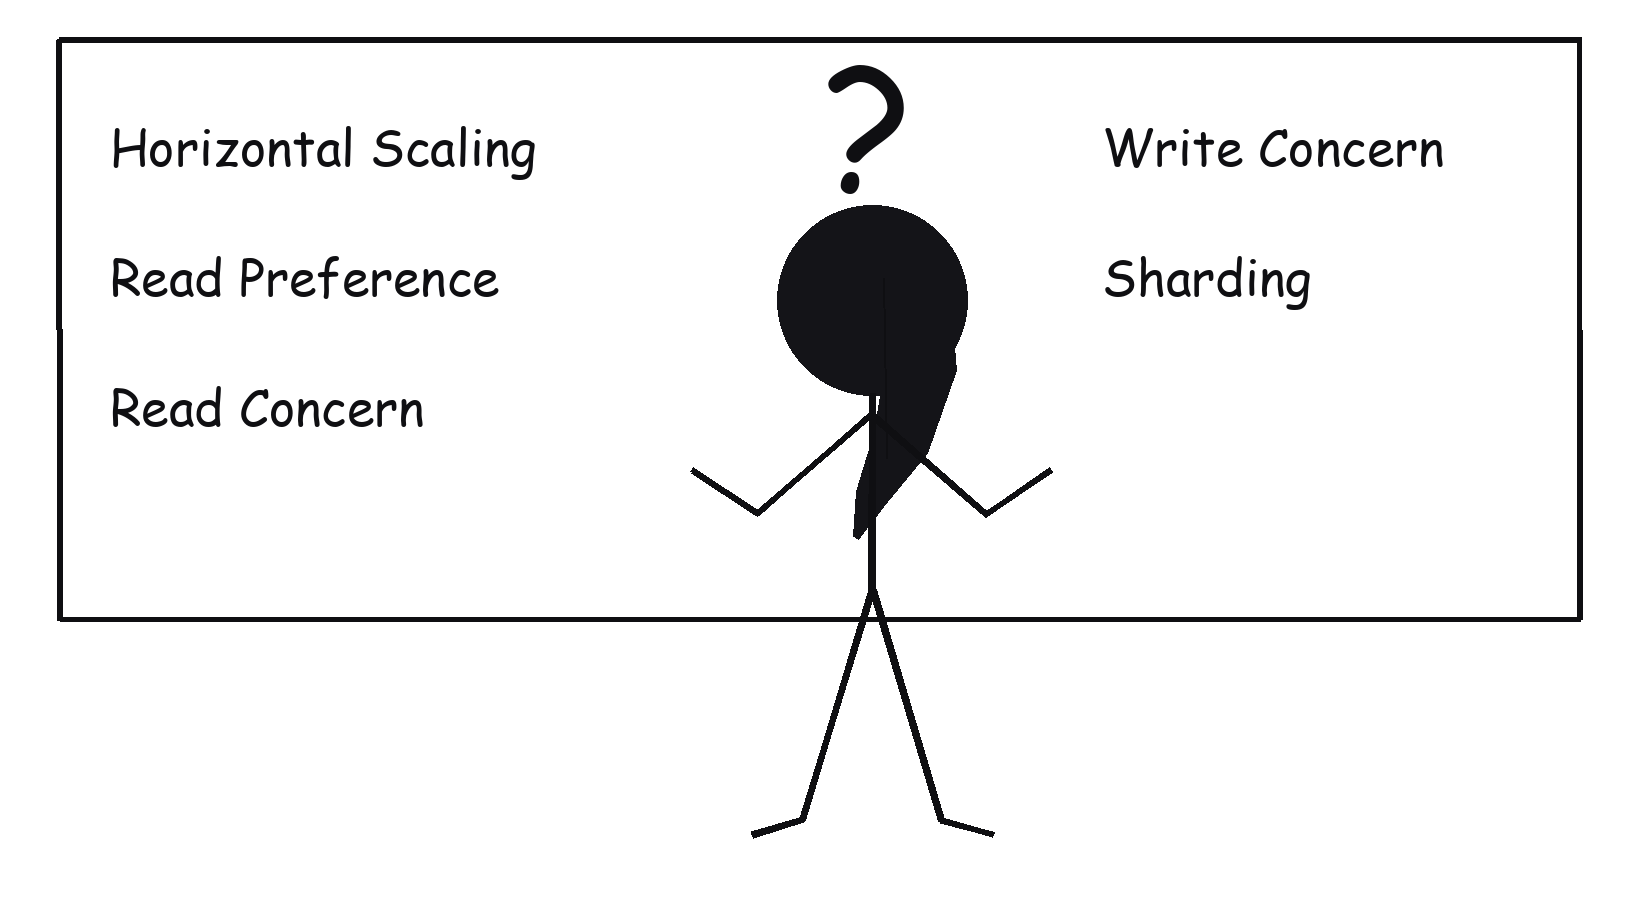
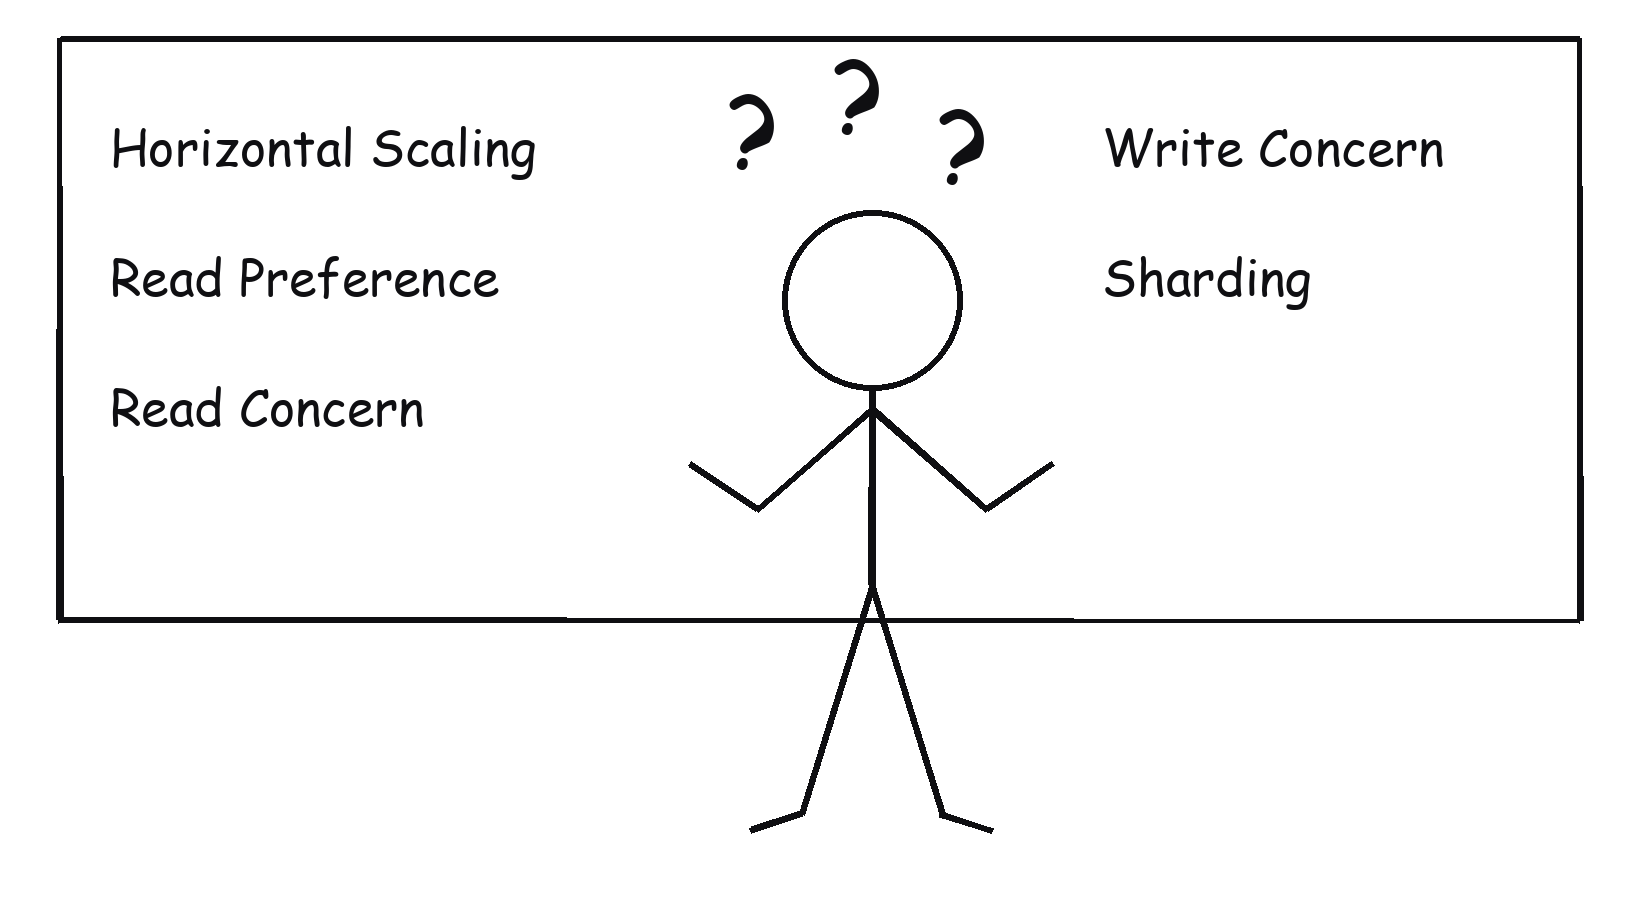
better image

diff --git a/content/posts/2026/mongodb-read-defaults.md b/content/posts/2026/mongodb-read-defaults.md
@@ -25,7 +25,7 @@ Some years ago, I worked at a company that used MongoDB, hosted on Atlas[^atlas]
  But when I explored our dashboard in Atlas, that's not what I saw. Only the primary node was receiving traffic. The secondary nodes were acting as nothing more than hot backups. And that's when I began my education in how MongoDB reads and writes actually work.
 
 {{< center >}}
-![A woman standing in front of a whiteboard, question mark over her head, looking at a two-column list: Horizontal Scaling, Read Preference, Read Concern, Write Concern, Sharding.](/images/mongodb-settings-whiteboard.png)
+![Me standing in front of a whiteboard, question marks over my head, looking at a two-column list: Horizontal Scaling, Read Preference, Read Concern, Write Concern, Sharding.](/images/mongodb-settings-whiteboard.png)
 {{< /center >}}
 
 
